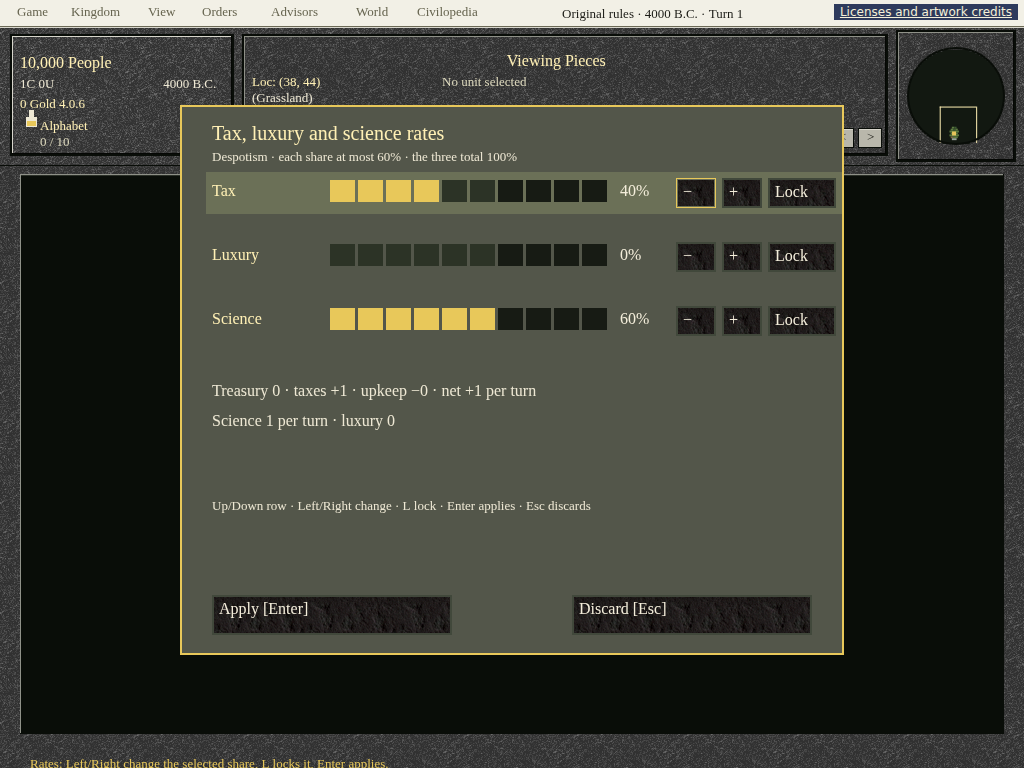
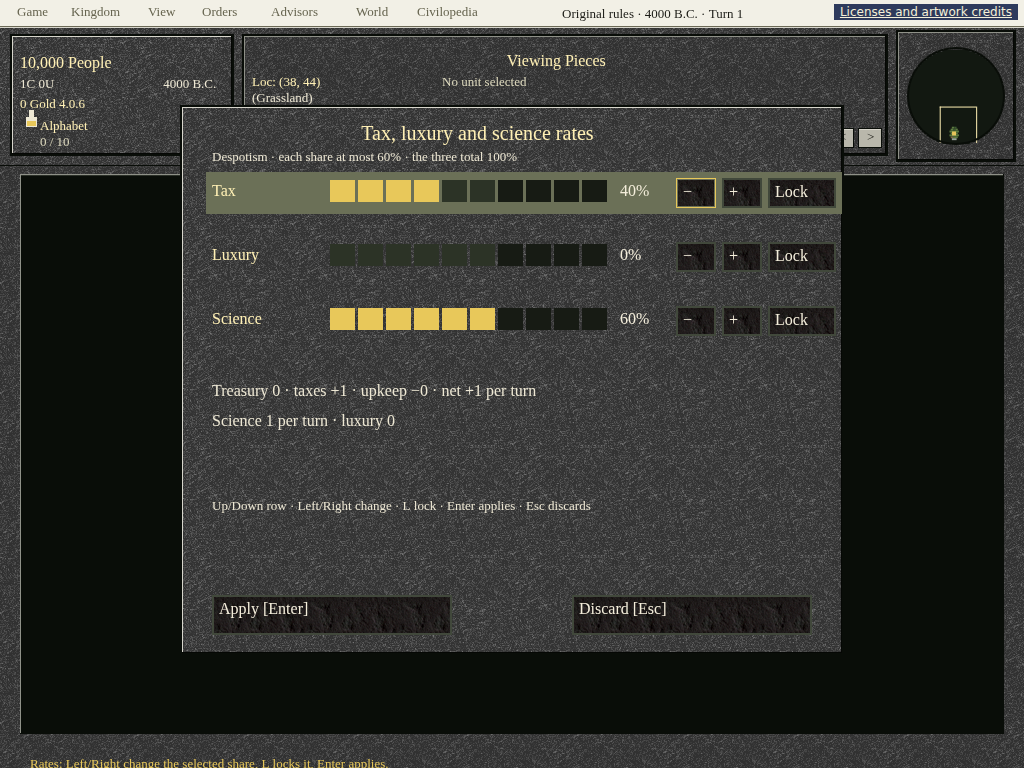
Draw dialogs as the original's stone panels
With a game loaded every modal now uses the install's raised stone texture
with its beveled frame and a centred title, instead of the provisional flat
olive box; the setup screen, which has no atlas, keeps the flat panel. The
shared frame moves from chrome.rs to style::panel_frame so the band, the city
panels and the dialogs use one helper, and modal call sites pass whether a
game is loaded.

Tests that located the dialog title by a fixed x now match its line and type
step, since the title is centred. Guide captures regenerated; full `make test`
with CIVTOT_HOME, the browser walkthrough and the Linux real-input route pass;
baseline and inventory refreshed for the client changes.

Changed region(s): [[0.1562, 0.125, 0.8438, 0.875]]

diff --git a/crates/totui/src/client/chrome.rs b/crates/totui/src/client/chrome.rs
@@ -691,7 +691,7 @@ impl Client {
         let top = self.frame_top();
         let w = SIDE_W;
         let h = 768. - 8. - top;
-        panel_frame(draws, x, top, w, h, false);
+        style::panel_frame(draws, x, top, w, h, false);
         let cx = x + 6.;
         let bottom = top + h - 44.;
         let mut y = top + 8.;
@@ -776,10 +776,10 @@ impl Client {
             style::INSET,
         ));
         let (sx, sy, sw, sh) = Self::status_rect();
-        panel_frame(draws, sx, sy, sw, sh, true);
+        style::panel_frame(draws, sx, sy, sw, sh, true);
         self.status_panel_draw(draws, v, (sx, sy, sw, sh));
         let (ix, iy, iw, ih) = self.info_rect();
-        panel_frame(draws, ix, iy, iw, ih, false);
+        style::panel_frame(draws, ix, iy, iw, ih, false);
         self.info_panel_draw(draws, v, (ix, iy, iw, ih));
         self.overview_draw(draws, v);
     }
@@ -1065,7 +1065,7 @@ impl Client {
     /// outline and the scroll arrows' ring.
     fn overview_draw(&self, draws: &mut Vec<Draw>, v: &HumanView) {
         let (x, y, w, h) = self.overview_rect();
-        panel_frame(draws, x, y, w, h, false);
+        style::panel_frame(draws, x, y, w, h, false);
         let (cx, cy, r) = self.overview_circle();
         // A dark disc, row by row, before the known-world cells: the original
         // overview is an opaque circle rather than a square minimap.
@@ -1170,7 +1170,7 @@ impl Client {
         let Some((x, y, w, h)) = self.dock_rect() else {
             return;
         };
-        panel_frame(draws, x, y, w, h, false);
+        style::panel_frame(draws, x, y, w, h, false);
         draws.push(text(
             x + 8.,
             y + 18.,
@@ -1228,27 +1228,6 @@ impl Client {
         self.status = "Map centred from the overview.".into();
         true
     }
-}
-
-/// A raised (`band` texture) or sunken (`panel` texture) stone frame.
-fn panel_frame(draws: &mut Vec<Draw>, x: f64, y: f64, w: f64, h: f64, raised: bool) {
-    draws.push(rect(x, y, w, h, style::INSET));
-    draws.push(Draw::Tile {
-        x: x + 2.,
-        y: y + 2.,
-        w: w - 4.,
-        h: h - 4.,
-        sprite: if raised { "band" } else { "panel-mid" }.into(),
-    });
-    let light = if raised {
-        style::BAND_LIGHT
-    } else {
-        style::BAND_EDGE
-    };
-    draws.push(rect(x + 2., y + 2., w - 4., 1., light));
-    draws.push(rect(x + 2., y + 2., 1., h - 4., light));
-    draws.push(rect(x + 2., y + h - 3., w - 4., 1., style::SHADOW));
-    draws.push(rect(x + w - 3., y + 2., 1., h - 4., style::SHADOW));
 }
 
 /// Rough width of a string at one type step, for right-aligned band text.

diff --git a/crates/totui/src/client/style.rs b/crates/totui/src/client/style.rs
@@ -125,11 +125,39 @@ fn rect(x: f64, y: f64, w: f64, h: f64, color: &str) -> Draw {
     }
 }
 
-/// The shared modal frame (#282): a gold hairline around the panel fill.
+/// A raised (`band` texture) or sunken (`panel-mid` texture) stone frame,
+/// shared by the top band, the city panels and the dialogs (#439).
+pub fn panel_frame(draws: &mut Vec<Draw>, x: f64, y: f64, w: f64, h: f64, raised: bool) {
+    draws.push(rect(x, y, w, h, INSET));
+    draws.push(Draw::Tile {
+        x: x + 2.,
+        y: y + 2.,
+        w: w - 4.,
+        h: h - 4.,
+        sprite: if raised { "band" } else { "panel-mid" }.into(),
+    });
+    let light = if raised { BAND_LIGHT } else { BAND_EDGE };
+    draws.push(rect(x + 2., y + 2., w - 4., 1., light));
+    draws.push(rect(x + 2., y + 2., 1., h - 4., light));
+    draws.push(rect(x + 2., y + h - 3., w - 4., 1., SHADOW));
+    draws.push(rect(x + w - 3., y + 2., 1., h - 4., SHADOW));
+}
+
+/// The shared modal frame (#282, #439): with a game loaded, the original's
+/// raised stone panel; otherwise the flat panel fill of the setup screen.
 /// Screens pass their own geometry and draw titles and content on top.
-pub fn modal(draws: &mut Vec<Draw>, x: f64, y: f64, w: f64, h: f64) {
-    draws.push(rect(x, y, w, h, GOLD));
-    draws.push(rect(x + 2., y + 2., w - 4., h - 4., PANEL));
+pub fn modal(draws: &mut Vec<Draw>, x: f64, y: f64, w: f64, h: f64, stone: bool) {
+    if stone {
+        panel_frame(draws, x, y, w, h, true);
+    } else {
+        draws.push(rect(x, y, w, h, GOLD));
+        draws.push(rect(x + 2., y + 2., w - 4., h - 4., PANEL));
+    }
+}
+
+/// Rough width of a string at one type step, for centring titles.
+pub fn text_width(s: &str, size: u32) -> f64 {
+    s.chars().count() as f64 * 0.52 * f64::from(size)
 }
 
 /// A focused button gets a gold hairline so keyboard focus is always visible

diff --git a/crates/totui/src/client/mod.rs b/crates/totui/src/client/mod.rs
@@ -2871,7 +2871,7 @@ impl Client {
         }
         let modal_start = draws.len();
         if let Some(modal) = &self.modal {
-            style::modal(&mut draws, 180., 105., 664., 550.);
+            style::modal(&mut draws, 180., 105., 664., 550., self.loaded.is_some());
             // Advisors and reports carry the date, as the original's do.
             let dated = |t: &str| match self.view().and_then(|v| self.date_label(&v.observation)) {
                 Some(date) => format!("{t} · {date}"),
@@ -2914,8 +2914,9 @@ impl Client {
                 }
                 .to_string(),
             };
+            let title_x = 180. + (664. - style::text_width(&title, style::TYPE_TITLE)) / 2.;
             draws.push(text(
-                212.,
+                title_x.max(196.),
                 125.,
                 &title,
                 style::TYPE_TITLE,
@@ -3080,7 +3081,7 @@ impl Client {
         }
         if self.notice_overlay() {
             let (lines, (x, y, w, h)) = self.notice_overlay_rect();
-            style::modal(&mut draws, x, y, w, h);
+            style::modal(&mut draws, x, y, w, h, self.loaded.is_some());
             let more = self
                 .notice_log
                 .iter()
@@ -3219,7 +3220,7 @@ impl Client {
         let advancing = self.opponent_work_running();
         if advancing {
             let start = draws.len();
-            style::modal(&mut draws, 212., 360., 460., 52.);
+            style::modal(&mut draws, 212., 360., 460., 52., self.loaded.is_some());
             draws.push(text(
                 228.,
                 368.,

diff --git a/crates/totui/src/client/tests.rs b/crates/totui/src/client/tests.rs
@@ -3099,9 +3099,9 @@ pub(super) fn title(c: &Client) -> serde_json::Value {
         .draws
         .iter()
         .find_map(|d| match d {
-            Draw::Text {
-                x, y, text, size, ..
-            } if (*x, *y, *size) == (212., 125., style::TYPE_TITLE) => Some(text.clone().into()),
+            Draw::Text { y, text, size, .. } if (*y, *size) == (125., style::TYPE_TITLE) => {
+                Some(text.clone().into())
+            }
             _ => None,
         })
         .unwrap_or(serde_json::Value::Null)
@@ -3525,9 +3525,9 @@ fn reports_open_switch_sort_drill_down_and_return_without_mutation() {
     key(&mut c, "F1");
     let title = |c: &Client| {
         c.frame().draws.iter().find_map(|d| match d {
-            Draw::Text {
-                x, y, text, size, ..
-            } if (*x, *y, *size) == (212., 125., style::TYPE_TITLE) => Some(text.clone()),
+            Draw::Text { y, text, size, .. } if (*y, *size) == (125., style::TYPE_TITLE) => {
+                Some(text.clone())
+            }
             _ => None,
         })
     };

diff --git a/docs/ui/original-frame.md b/docs/ui/original-frame.md
@@ -39,6 +39,11 @@ in the browser and desktop clients together.
   the edges. The provisional right column, its city buttons and the bottom
   status bar are gone from the map screen. The client's one-line feedback
   stays as map text over the stone surround.
+- **Dialog chrome**: with a game loaded, every modal (science advisor, rates,
+  reports, Civilopedia, save/load, confirmations) is the original's raised
+  stone panel from the install's own texture, with the title centred on it,
+  instead of the provisional flat olive box. The setup screen, which has no
+  atlas, keeps the flat panel.
 - **Cities open from their tile** (single click selects; double-click opens),
   as in the original. The sidebar's `Manage city` / `Choose production`
   entries are gone; `Kingdom > Cities` still cycles city windows.
@@ -98,6 +103,10 @@ where a command exists (for example `Build &Road|r`, `&Fortify|f`,
 - **Panel textures**: the band uses the install's `City.gif` stone centred on
   the capture's measured tone; the exact source tile and native tiling are not
   identified, so the speckle pattern is not necessarily the same pixels.
+- **Dialogs**: the frame material and centred title follow the original, but
+  each dialog's internal layout is still ours (the original sizes and places
+  its per-screen lists, portraits and buttons differently); the type ladder
+  is also ours pending the #283 review.
 - **Window chrome**: the original capture includes its OS window border; the
   browser/desktop stage has none.
 - **City window**: still the boxed v0.14–v0.21 layout. The original's floating
